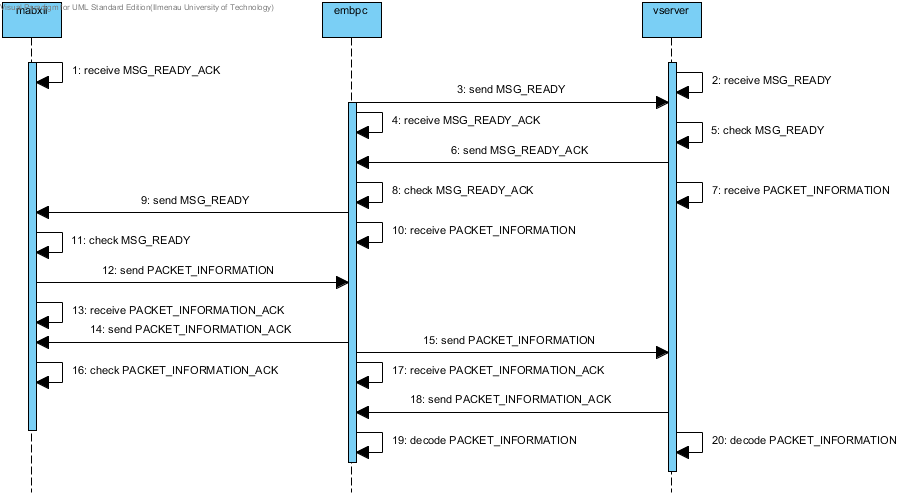
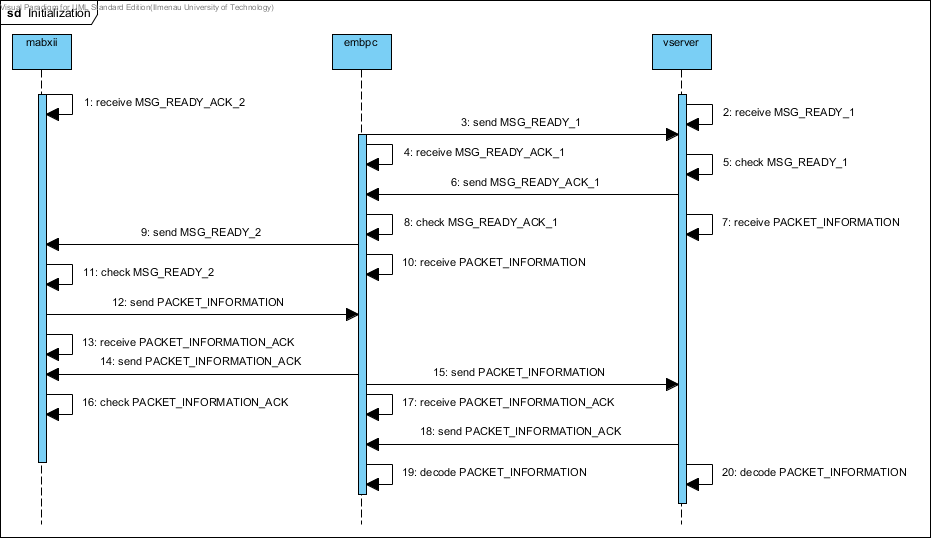
fixed some names

diff --git a/doku/feinentwurf/feinentwurf_template.tex b/doku/feinentwurf/feinentwurf_template.tex
@@ -891,7 +891,7 @@ Die Umsetzung der bidirektionalen Kommunikation zwischen der MicroAutoBox II und
 
 %--------------------------  Embedded PC  --------------------------%
 
-\section{Embedded PC}
+\section{Embedded PC und virtueller Server}
 
 An der Datenübertragung und Verarbeitung sind drei von uns entworfene Anwendungen beteiligt. Aus dem in Abschnitt 2.1 (VERWEIS) bereits beschriebenen Simulink-Modell wird mithilfe der Entwicklungswerkzeuge von dSPACE automatisch C-Code erzeugt und für die Ausführung auf der MicroAutoBox II kompiliert. Diese Anwendung wird im Folgenden als \textit{mabxii} bezeichnet. Desweiteren wird jeweils eine von uns in C++ implementierte Anwendung auf dem Embedded-PC und vServer laufen welche von nun an \textit{embpc} und \textit{vserver} genannt werden. Bei deren Entwurf wurde insbesondere darauf geachtet, dass beiden Anwendungen eine möglichst große gemeinsame Code-Basis zugrundeliegt. Dadurch soll zum einen die Fehlerwahrscheinlichkeit minimiert werden -- Code-Abschnitte werden häufiger ausgeführt wodurch Fehler eher zutage treten und behoben werden können -- und zum anderen soll dadurch Zeit bei der Implementierung und dem Testen eingespart werden die letztendlich der Qualität der Software zugute kommt. 
 
@@ -953,8 +953,9 @@ Der Embedded-PC nimmt die Fahrzeugdaten entgegen und verarbeitet diese (\texttt{
 Nach Abschluss der Entwurfsphase wurde die Idee umgesetzt die eingehenden Fahrzeugdaten am Embedded-PC in mehrere Pakete aufzuteilen, um bei eventuell auftretenden Verbindungsproblemen zumindest einzelne Pakete erfolgreich an den virtuellen Server übertragen zu können. Das Programm auf dem PC sorgt dafür, dass jedes Paket vor dem Senden mit einem aktuellen 8 Byte Zeitstempel und einer 4 Byte Identifikationsnummer (ID) versehen ist (Zeitstempel + ID = \texttt{HEADER}). Zum Erzeugen des Zeitstempels, mit Nanosekunden-Auflösung wird die Echtzeituhr des PCs genutzt (clock\_gettime(CLOCK\_REALTIME, Zeitstempel-Variable)). Die ID repräsentiert die Paketnummer, ist also eine Zahl zwischen 1 und der Anzahl der getrennten Pakete. Standardmäßig wurde diese in Anlehnung an das Pflichtenheft auf 5 Pakete gesetzt, kann aber im mabxii Programm geändert werden. \\
 Sobald ein Paket den vServer erreicht wird es zunächst dekodiert (\texttt{6: decode PACKAGE 1}) (wobei \texttt{PACKAGE 1} hier nicht zwangsläufig das erste Paket aus \texttt{DATA} sein muss - Pakete können sich überholen oder verloren gehen). Dabei wird zunächst der \texttt{HEADER} ausgelesen. Der darin enthaltene Zeitstempel wird mit dem lokalen verglichen, ist die Differenz größer als 5 Sekunden wird das Paket verworfen, ansonsten wird das Paket entsprechend der Daten in \texttt{VEC\_LAYOUT}, \texttt{VEC\_COMMA} und 7\texttt{VEC\_DATATYPES} so bearbeitet, dass der Dekoder einen Fahrzeugwert nach dem anderen an die Datenbank zur Verfügung stellen kann. Wurden alle Fahrzeugdaten aus dem Paket ausgelesen und verarbeitet, wird ein neues Paket empfangen. 
 
-\item
-Tritt ein Neustart des Embedded-PCs mitten im Kommunikationsvorgang auf, führt das erneute Senden des Pakets \texttt{MSG\_READY} an den virtuellen Server zu dessen Reaktion den aktuellen Kommunikationsvorgang abzubrechen und sich auf einen neuen vorzubereiten. Auch das senden des Pakets (ready\_3) dient dazu einen neuen Kommunikationsvorgang mitzuteilen, denn durch dessen Empfang von der MicroAutoBox II, bricht auch diese den aktuell laufenden Kommunikationsvorgang ab und beginnt einen neuen Vorgang. Ein weiterer kritischer Punkt ist das nicht Empfangen der Fahrzeugdaten des Servers, wird das Programm nach einem von uns festgelegten Zeitpunkt (timeout X) keine Pakete empfangen, reagiert es durch ein erneutes Senden des Paketes (ready\_2) an den Embedded-PC. Daraufhin sendet der PC nach Empfang des Paketes erneut das Paket (ready\_3), was einen neuen Kommunikationsvorgang auslöst. Weitere Auslöser für einen neuen Kommunikationsvorgang sind die folgenden Zeitüberschreitungen, welche Y-mal bei Y-maligen Senden des zugehörigen Pakets überschritten wurden:
+\end{itemize}
+
+Tritt ein Neustart des Embedded-PCs mitten im Kommunikationsvorgang auf, führt das erneute Senden des Pakets \texttt{MSG\_READY} an den virtuellen Server zu dessen Reaktion den aktuellen Kommunikationsvorgang abzubrechen und sich auf einen neuen vorzubereiten -- der Initialsierungsprozess beginnt von neuem. Auch das Senden des Pakets \texttt{MSG\_READY} an die MicroAutoBox II dient dazu einen neuen Kommunikationsvorgang mitzuteilen, denn durch dessen Empfang bricht auch diese den aktuell laufenden Kommunikationsvorgang ab und beginnt einen neuen Vorgang. Ein weiterer kritischer Punkt ist das nicht Empfangen der Fahrzeugdaten des Servers, wird das Programm nach einem von uns festgelegten Zeitpunkt (timeout X) keine Pakete empfangen, reagiert es durch ein erneutes Senden des Paketes (ready\_2) an den Embedded-PC. Daraufhin sendet der PC nach Empfang des Paketes erneut das Paket (ready\_3), was einen neuen Kommunikationsvorgang auslöst. Weitere Auslöser für einen neuen Kommunikationsvorgang sind die folgenden Zeitüberschreitungen, welche Y-mal bei Y-maligen Senden des zugehörigen Pakets überschritten wurden:
 
 timeout B1 öfter als Y-mal überschritten (Paket Y-mal gesendet),
 timeout B2 öfter als Y-mal überschritten (Paket Y-mal gesendet),
@@ -963,7 +964,7 @@ timeout C2 öfter als Y-mal überschritten (Paket Y-mal gesendet),
 timeout D\_1 öfter als Y-mal überschritten (Paket Y-mal gesendet),
 timeout D\_2 öfter als Y-mal überschritten (Paket Y-mal gesendet).
 
-\end{itemize}
+
 
 
 %--------------------------   vServer   ----------------------------%
